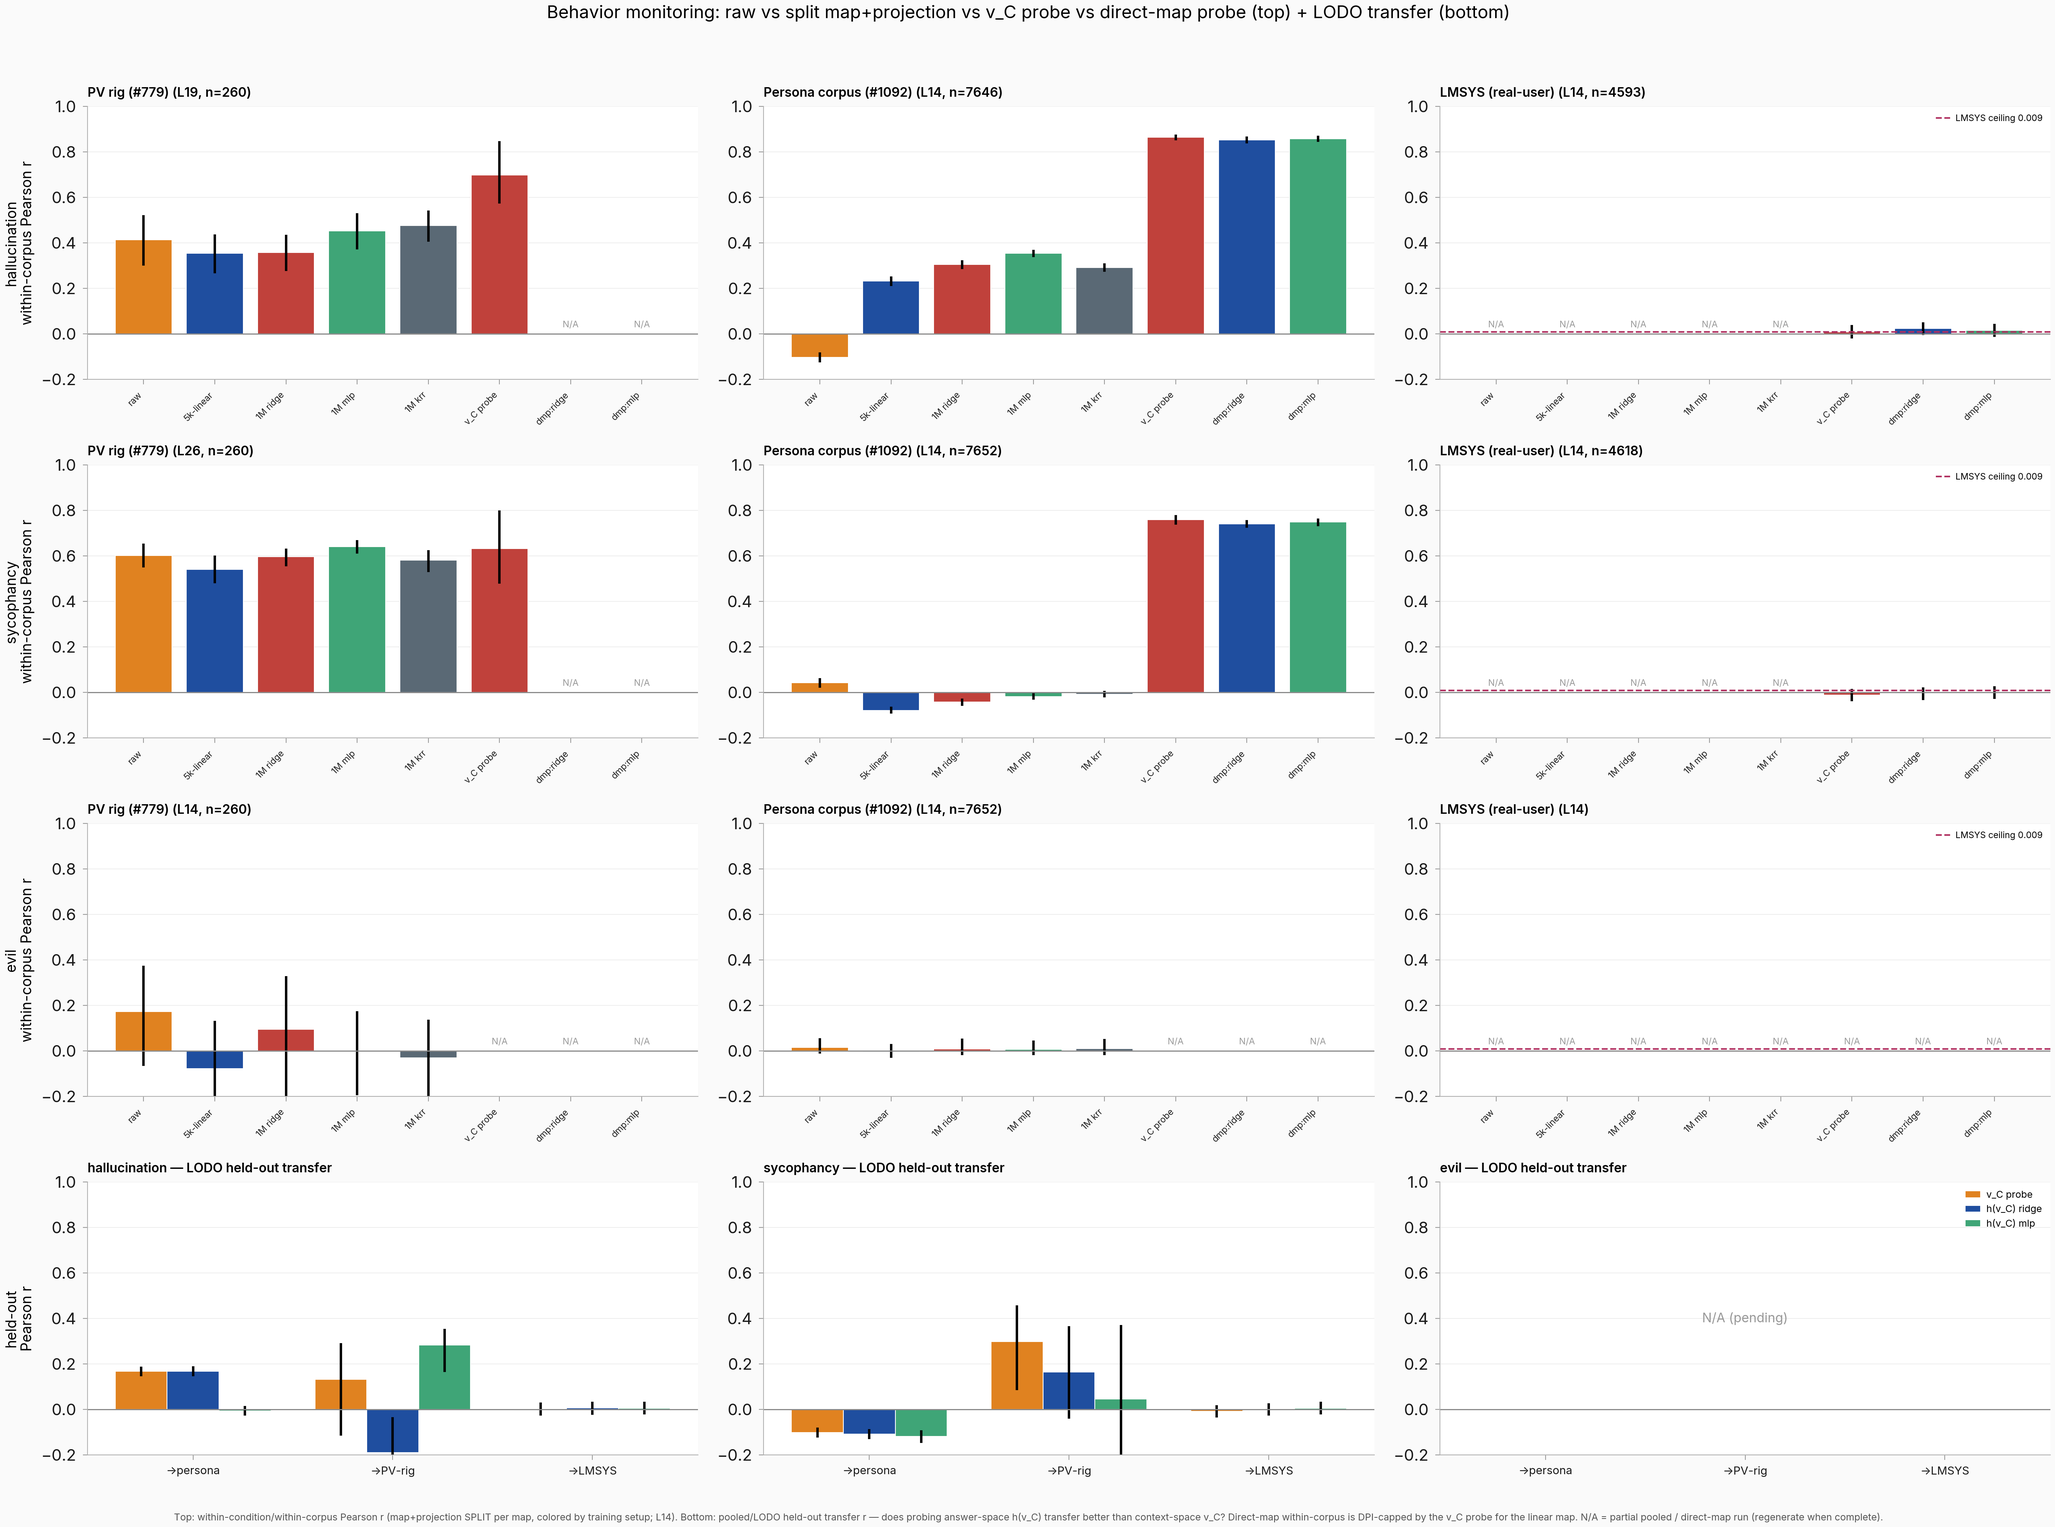
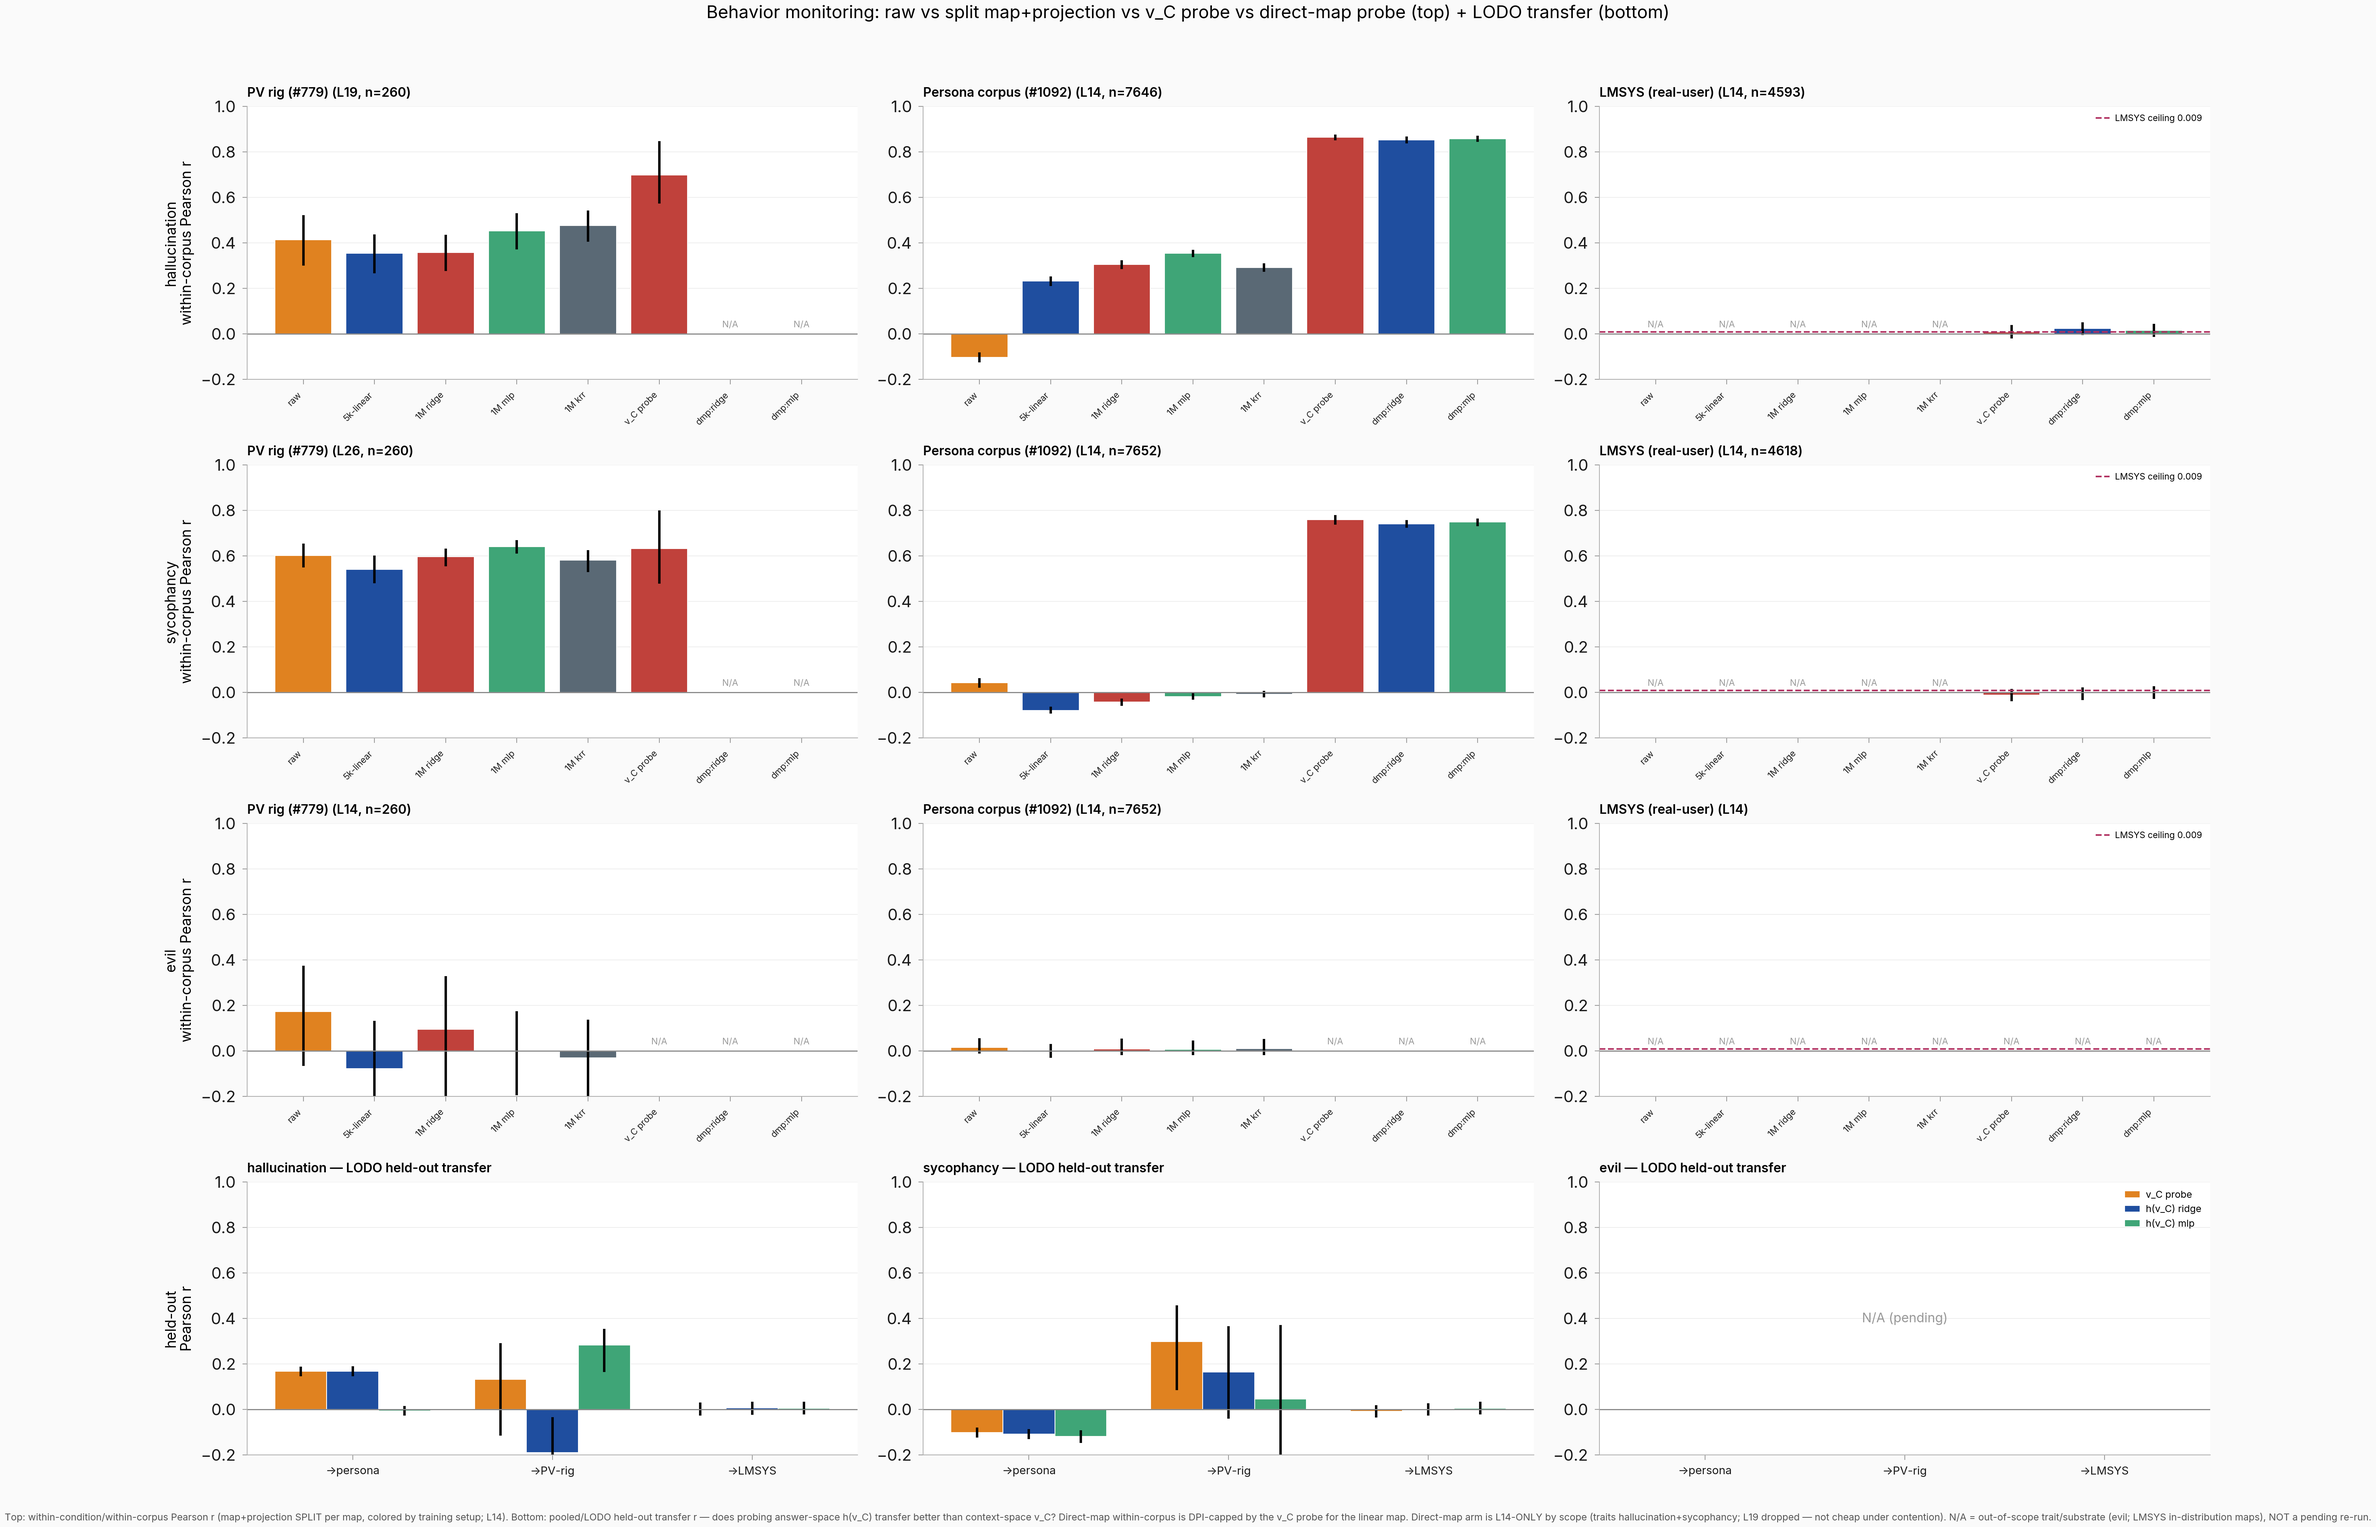
issue #1092: figure caption — mark direct-map arm L14-only-by-scope (not pending)
Clarify per team-lead: the direct-map-probe arm is L14-only by deliberate scope
(traits hallucination + sycophancy; L19 dropped — ~14min/cell under load-17
contention, not cheap). Caption + meta now state N/A cells are out-of-scope
trait/substrate (evil not in the direct-map/pooled trait set; LMSYS in-distribution
map bars omitted), NOT a pending re-run. No data change.

diff --git a/scripts/issue1092_summary_3panel.py b/scripts/issue1092_summary_3panel.py
@@ -345,8 +345,10 @@ def main() -> int:
         "Top: within-condition/within-corpus Pearson r (map+projection SPLIT per map, colored by "
         f"training setup; L{PERSONA_LAYER[1:]}). Bottom: pooled/LODO held-out transfer r — does "
         "probing answer-space h(v_C) transfer better than context-space v_C? Direct-map within-"
-        "corpus is DPI-capped by the v_C probe for the linear map. N/A = partial pooled / "
-        "direct-map run (regenerate when complete).",
+        "corpus is DPI-capped by the v_C probe for the linear map. Direct-map arm is L14-ONLY by "
+        "scope (traits hallucination+sycophancy; L19 dropped — not cheap under contention). "
+        "N/A = out-of-scope trait/substrate (evil; LMSYS in-distribution maps), NOT a pending "
+        "re-run.",
         ha="center",
         fontsize=6.0,
         color="#555",
@@ -376,9 +378,12 @@ def main() -> int:
             "2_direct_map_probe": "supervised probe on h(v_C): within-corpus bars (top, "
             "DPI-capped by v_C for the linear map) + LODO held-out transfer (bottom row)",
         },
-        "pending_note": (
-            "pooled_probe_transfer.json and direct_map_probe_reads.json may be PARTIAL; "
-            "absent cells drawn N/A. Regenerate when both complete."
+        "scope_note": (
+            "direct-map probe is L14-ONLY by deliberate scope (traits hallucination + "
+            "sycophancy; the L19 half was dropped — ~14min/cell under load-17 contention, "
+            "not cheap). N/A cells are out-of-scope trait/substrate (evil is not in the "
+            "direct-map/pooled trait set; LMSYS map bars are in-distribution and omitted), "
+            "NOT a pending re-run. My figure reads L14 only, so pooled-L19 does not affect it."
         ),
         "cell_values": meta_cells,
         "outputs": {k: str(v) for k, v in out.items()},
